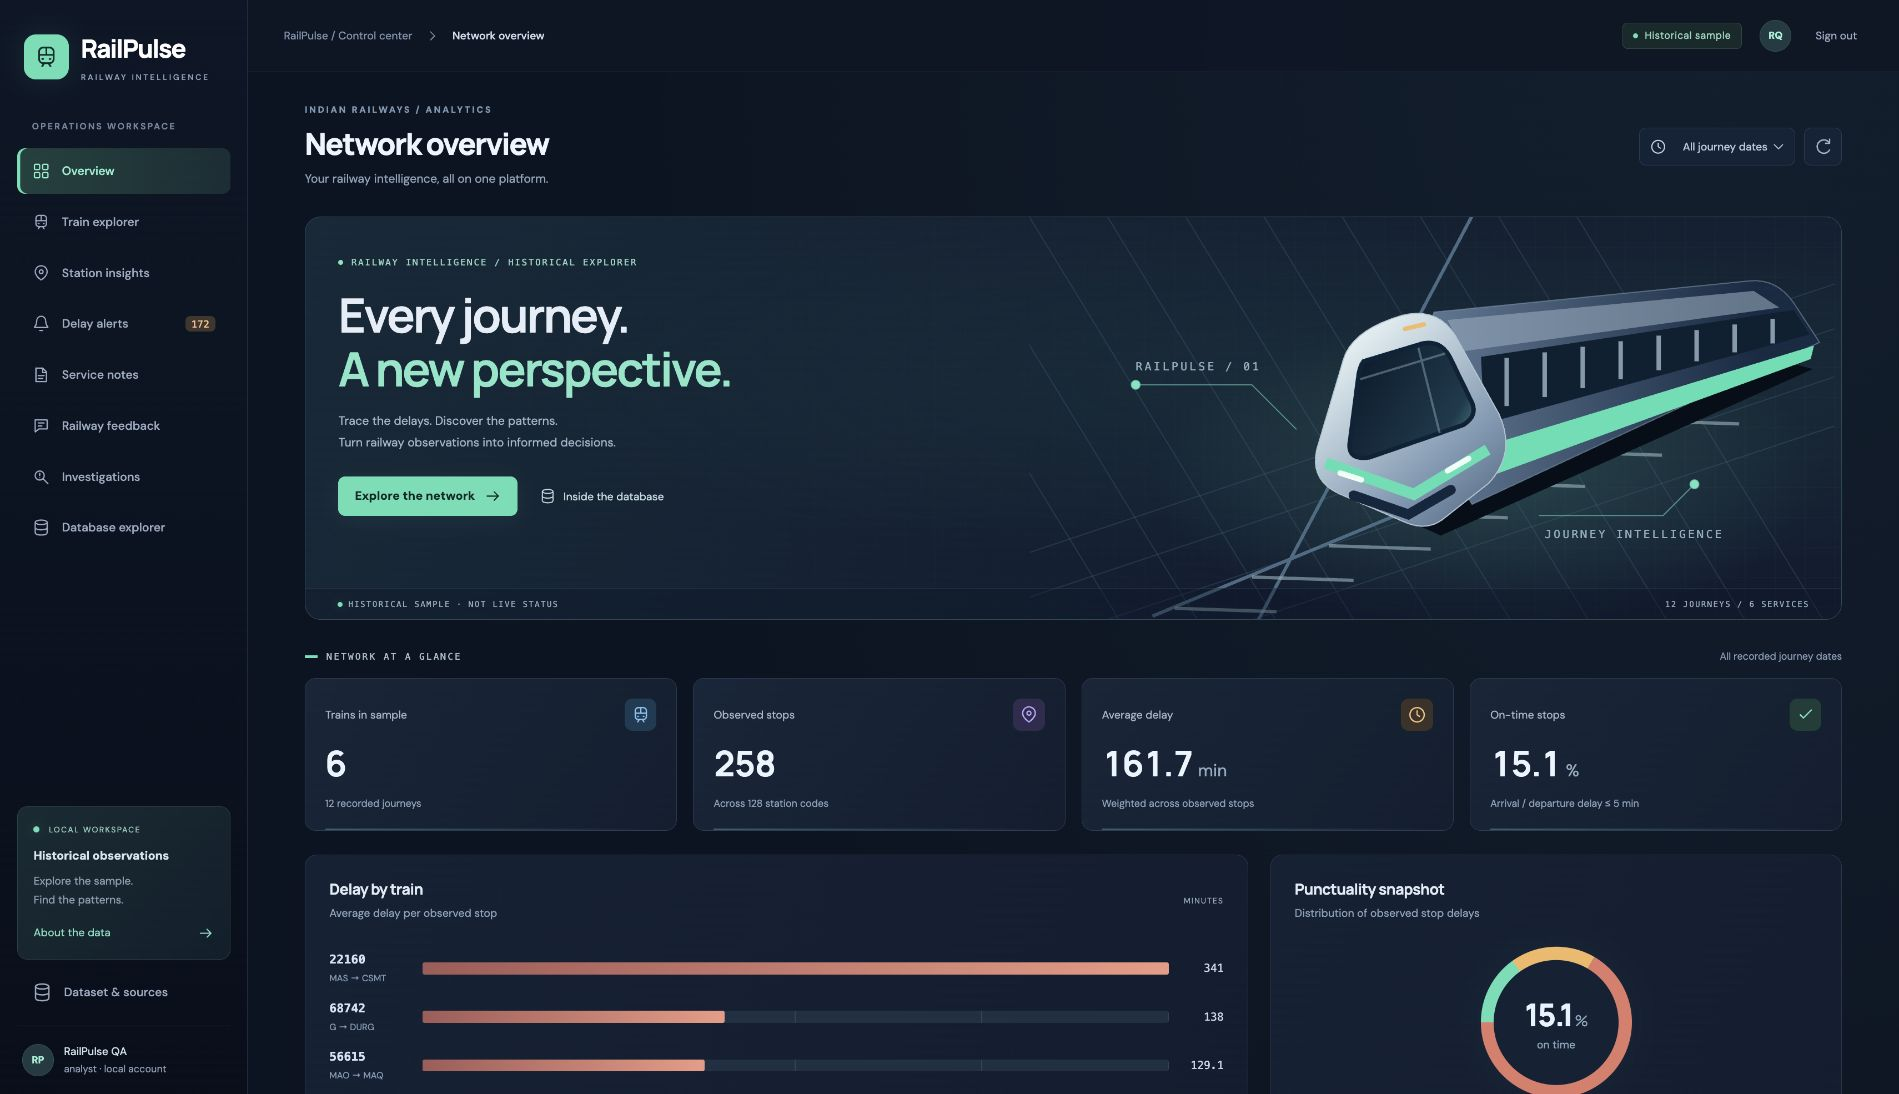
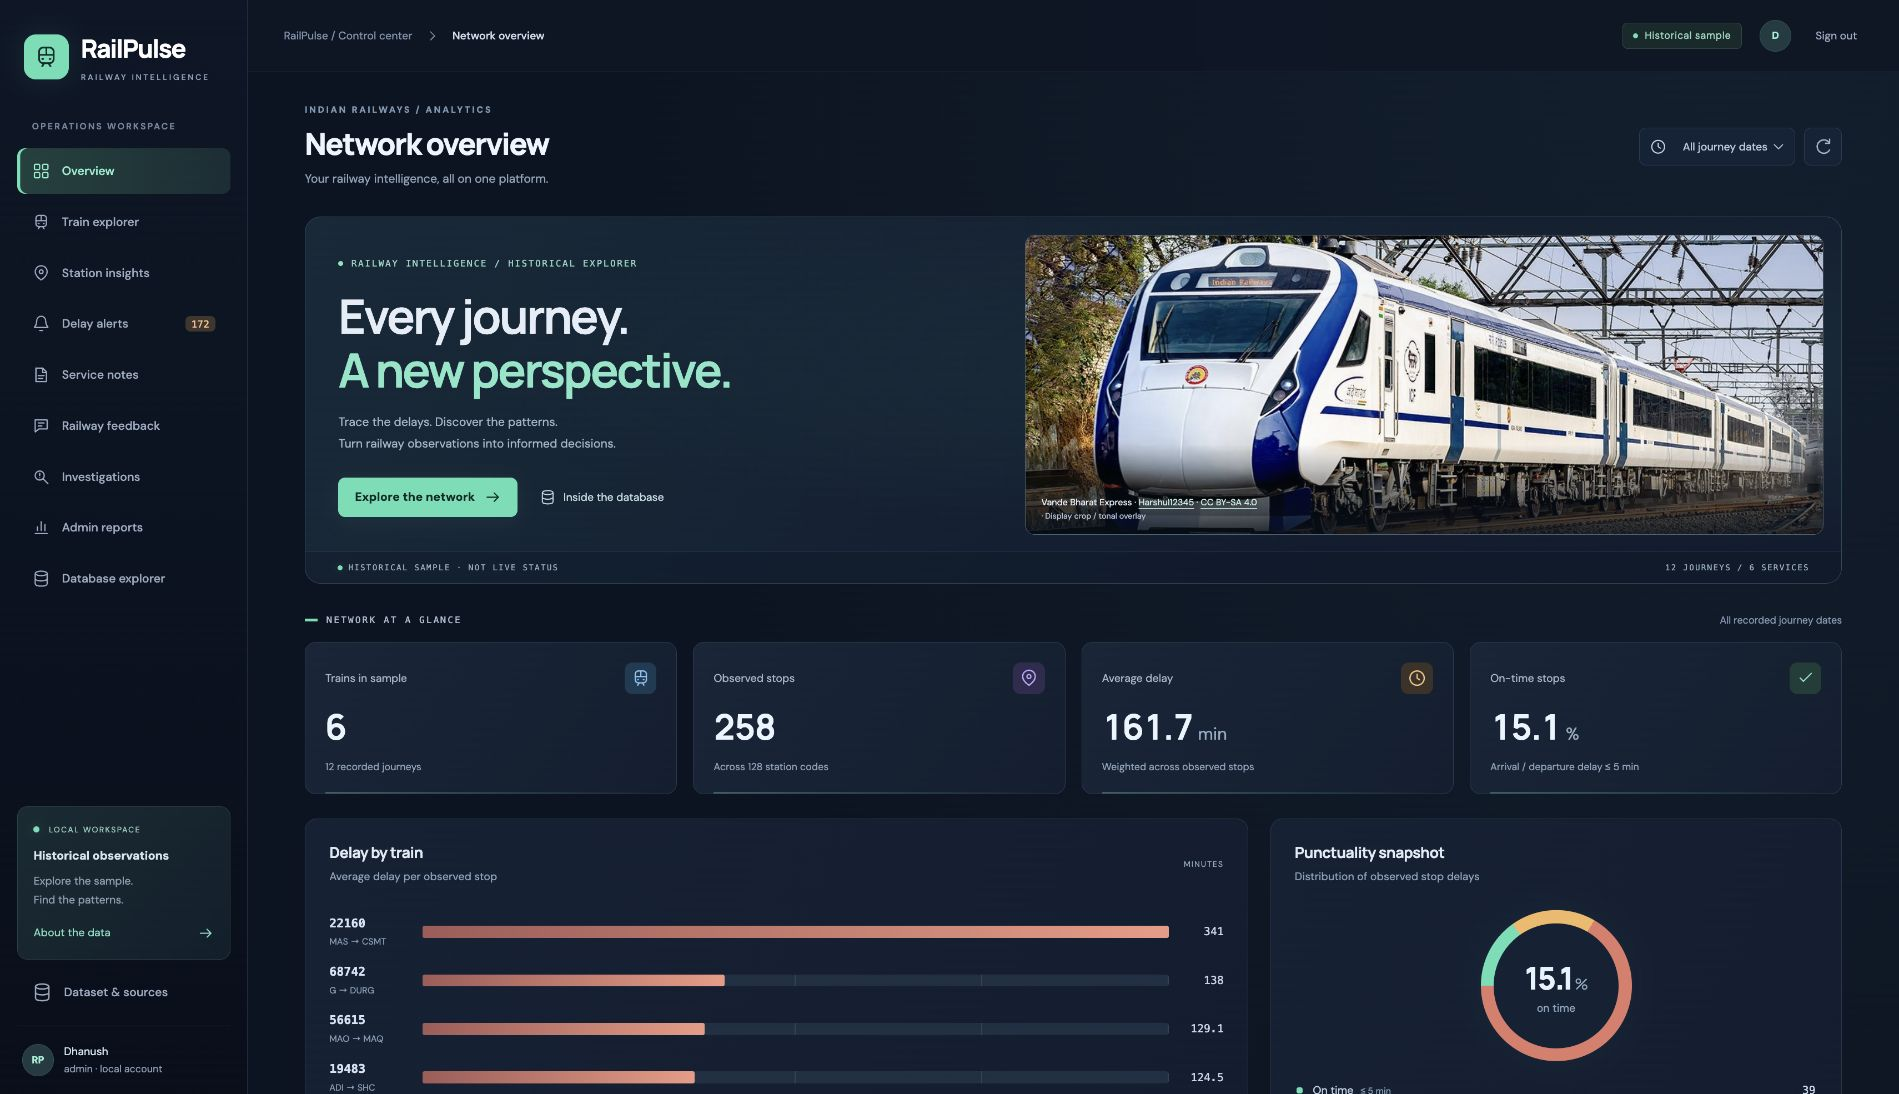
Replace train illustration with credited Vande Bharat photograph

diff --git a/app/components/rail-scene.tsx b/app/components/rail-scene.tsx
@@ -1,33 +1,4 @@
-import {useId} from 'react';
-
-/** Decorative railway illustration; not a geographical map or live status. */
+/** Real railway photograph; attribution travels with both uses of the image. */
 export default function RailScene(){
- const id=useId().replaceAll(':','');
- return <svg className="rail-scene" viewBox="0 0 720 360" fill="none" aria-hidden="true">
-  <defs>
-   <linearGradient id={`${id}body`} x1="310" y1="90" x2="490" y2="300" gradientUnits="userSpaceOnUse"><stop stopColor="#e4f1f3"/><stop offset=".5" stopColor="#7c99b3"/><stop offset="1" stopColor="#263d56"/></linearGradient>
-   <linearGradient id={`${id}side`} x1="340" y1="120" x2="650" y2="110" gradientUnits="userSpaceOnUse"><stop stopColor="#607c99"/><stop offset="1" stopColor="#142b44"/></linearGradient>
-   <linearGradient id={`${id}glass`} x1="290" y1="125" x2="430" y2="205" gradientUnits="userSpaceOnUse"><stop stopColor="#071b2c"/><stop offset=".65" stopColor="#173a4d"/><stop offset="1" stopColor="#65c9bc"/></linearGradient>
-   <radialGradient id={`${id}glow`}><stop stopColor="#4ee2bd" stopOpacity=".17"/><stop offset="1" stopColor="#4ee2bd" stopOpacity="0"/></radialGradient>
-  </defs>
-  <ellipse cx="410" cy="232" rx="300" ry="140" fill={`url(#${id}glow)`}/>
-  <g stroke="#3a627b" strokeOpacity=".35"><path d="M0 300 720 60M0 340 720 100M70 360 720 143M200 360 720 187"/>{[80,150,220,290,360,430,500,570,640,710].map(x=><path key={x} d={`M${x} 360 ${x-220} 0`}/>)}</g>
-  <g stroke="#496c85" strokeWidth="3"><path d="m110 357 585-242M205 360 507-211"/></g>
-  <g stroke="#98b6c2" strokeOpacity=".6" strokeWidth="3">{[0,1,2,3,4,5,6].map(i=><path key={i} d={`m${130+i*69} ${350-i*28} 91 3`}/>)}</g>
-  <path d="m296 252 333-136 72 20-333 149Z" fill="#060e19"/>
-  <path d="m362 85 283-28q24-2 39 20l23 35-311 145-58-101Z" fill={`url(#${id}side)`} stroke="#7894a9" strokeOpacity=".6"/>
-  <path d="m374 92 274-26 23 15-283 39Z" fill="#91a9bc" fillOpacity=".6"/>
-  <path d="m404 125 280-42 14 22-291 80Z" fill="#0b2133"/>
-  {[0,1,2,3,4,5,6,7].map(i=><path key={i} d={`m${427+i*34} ${126-i*5} 0 ${43-i*3}`} stroke="#829bad" strokeWidth="4"/>)}
-  <path d="m401 207 301-92-3 12-301 110Z" fill="#3fe0b4"/>
-  <path d="m333 88q32-8 48 18l39 70q16 35-9 62l-42 33q-14 10-33 2l-60-26q-25-12-19-39l24-81q8-26 52-39Z" fill={`url(#${id}body)`} stroke="#b1c7d3"/>
-  <path d="m299 129 53-16q16-3 24 12l20 41q5 12-8 20l-84 29q-21 3-17-16l7-54q1-11 5-16Z" fill={`url(#${id}glass)`} stroke="#092438" strokeWidth="4"/>
-  <path d="m348 117 19 76M296 145l76-23" stroke="#a9d6df" strokeOpacity=".35" strokeWidth="2"/>
-  <path d="m265 220 79 28 66-40" stroke="#3fe0b4" strokeWidth="10"/>
-  <path d="m290 249 49 17 38-22" stroke="#10283f" strokeWidth="9" strokeLinecap="round"/>
-  <path d="m278 229 19 6m77-8 19-11" stroke="#ecfff7" strokeWidth="5" strokeLinecap="round"/>
-  <path d="m336 100 17-4" stroke="#f5ba65" strokeWidth="4" strokeLinecap="round"/>
-  <g stroke="#55c6b1" strokeWidth="1" strokeOpacity=".65"><path d="M95 150h104l40 40"/><circle cx="95" cy="150" r="4" fill="#69e5c0"/><path d="M456 267h111l28-28"/><circle cx="595" cy="239" r="4" fill="#69e5c0"/></g>
-  <g fill="#8eafbf" fontFamily="monospace" fontSize="10" letterSpacing="2"><text x="95" y="137">RAILPULSE / 01</text><text x="461" y="287">JOURNEY INTELLIGENCE</text></g>
- </svg>;
+ return <figure className="rail-photo"><img src="/images/vande-bharat-mumbai.jpg" width="1200" height="737" alt="White and blue Vande Bharat Express travelling on railway tracks near Mumbai"/><figcaption>Vande Bharat Express · <a href="https://commons.wikimedia.org/wiki/File:Vande_Bharat_Express_around_Mumbai.jpg" target="_blank" rel="noreferrer">Harshul12345</a> · <a href="https://creativecommons.org/licenses/by-sa/4.0/" target="_blank" rel="noreferrer">CC BY-SA 4.0</a><span> · Display crop / tonal overlay</span></figcaption></figure>;
 }

diff --git a/app/night-rail.css b/app/night-rail.css
@@ -22,3 +22,7 @@ body{background:radial-gradient(ellipse at 90% 0,#142b3b80,transparent 45%),var(
 .hero-art-caption{display:none}
 /* Keep wide database tables in their own scroll areas on narrow screens. */
 .app-shell{overflow-x:clip}.workspace,.panel,.table-scroll,.analytics-grid>*,.bottom-grid>*{min-width:0}.table-scroll{max-width:100%}
+/* Documentary railway photography, with the train kept fully recognizable. */
+.rail-photo{position:relative;margin:0;overflow:hidden;background:#152335;border-radius:10px;isolation:isolate}.rail-photo img{display:block;width:100%;height:100%;object-fit:cover;object-position:38% 50%}.rail-photo:after{content:'';position:absolute;inset:0;pointer-events:none;background:linear-gradient(0deg,#06101bd9,transparent 30%,#0b1b2b08 85%)}.rail-photo figcaption{position:absolute;z-index:1;bottom:12px;left:16px;right:12px;color:#e2ebf3;font-size:9px;line-height:1.6}.rail-photo figcaption a{color:#c4eedf;text-underline-offset:3px}.rail-photo figcaption span{display:block;color:#b0c0d0;font-size:8px}.command-hero{grid-template-columns:1fr 1.15fr;align-items:center}.hero-art{padding:18px 18px 48px 5px;width:100%}.hero-art .rail-photo{height:300px;border:1px solid #4a626f}.command-hero:before{display:none}.login-story .rail-illustration{width:100%;margin:30px 0 12px}.login-story .rail-photo{aspect-ratio:1.63;border:1px solid #46606e}.story-copy{padding-top:45px}.story-copy h1{font-size:clamp(36px,3.8vw,58px)}
+@media(max-width:1200px){.hero-art .rail-photo{height:280px}.hero-copy h2{font-size:32px}}
+@media(max-width:760px){.command-hero{display:flex;flex-direction:column;align-items:stretch}.hero-copy{padding:25px 24px}.hero-art{position:relative;width:100%;right:auto;bottom:auto;opacity:1;z-index:0;padding:0 20px 55px}.hero-art .rail-photo{height:auto;aspect-ratio:1.63}.login-story .rail-illustration{position:relative;width:100%;right:auto;bottom:auto;opacity:1;pointer-events:auto;margin:24px 0 8px}.rail-photo figcaption{font-size:8px;left:10px;bottom:8px}.rail-photo figcaption span{font-size:7px}.story-copy{padding-top:30px}}
